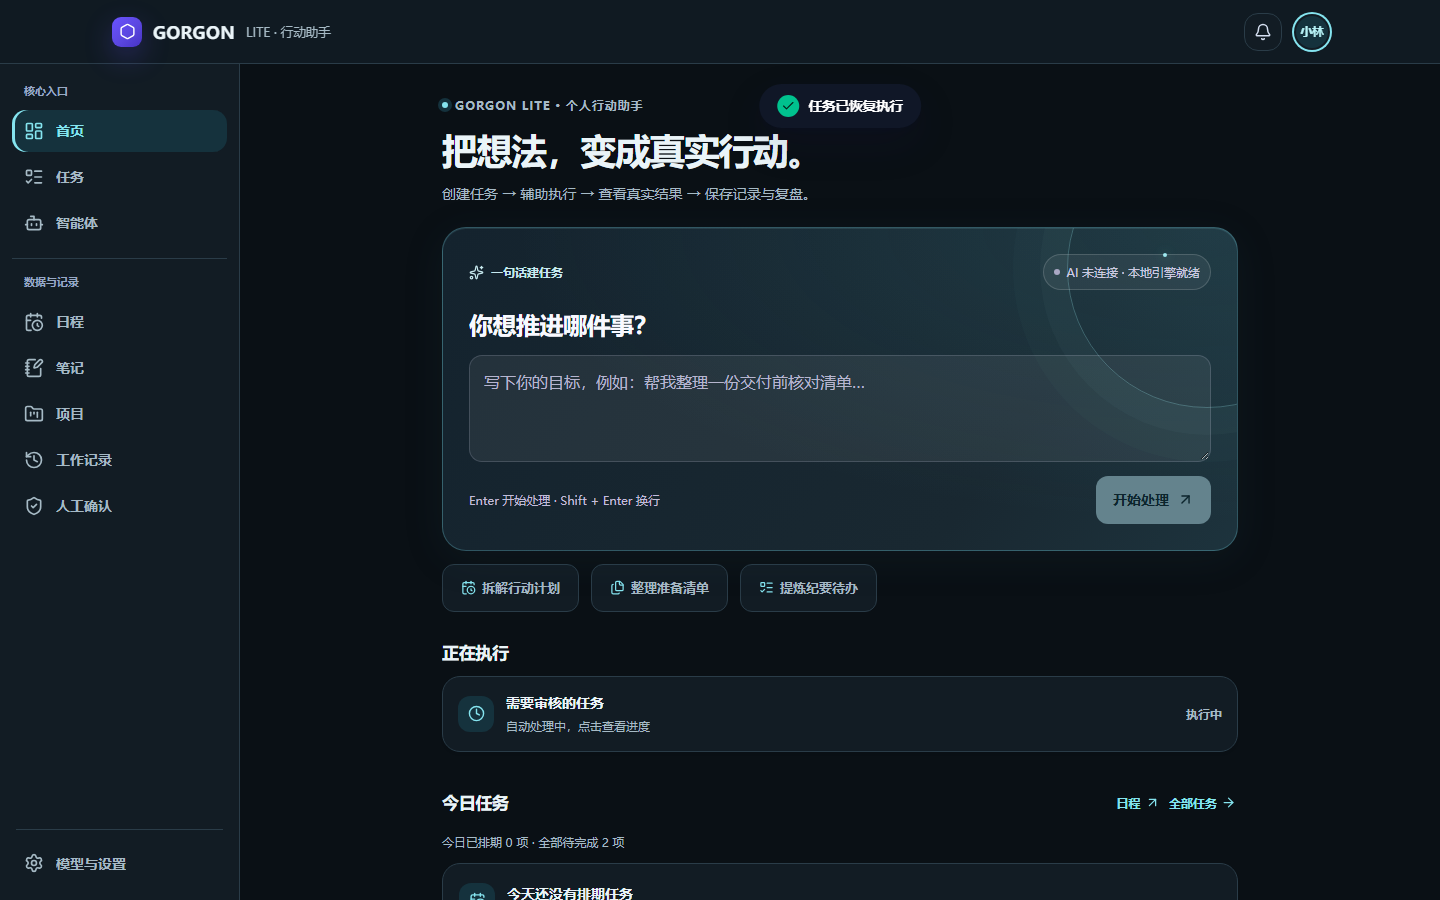
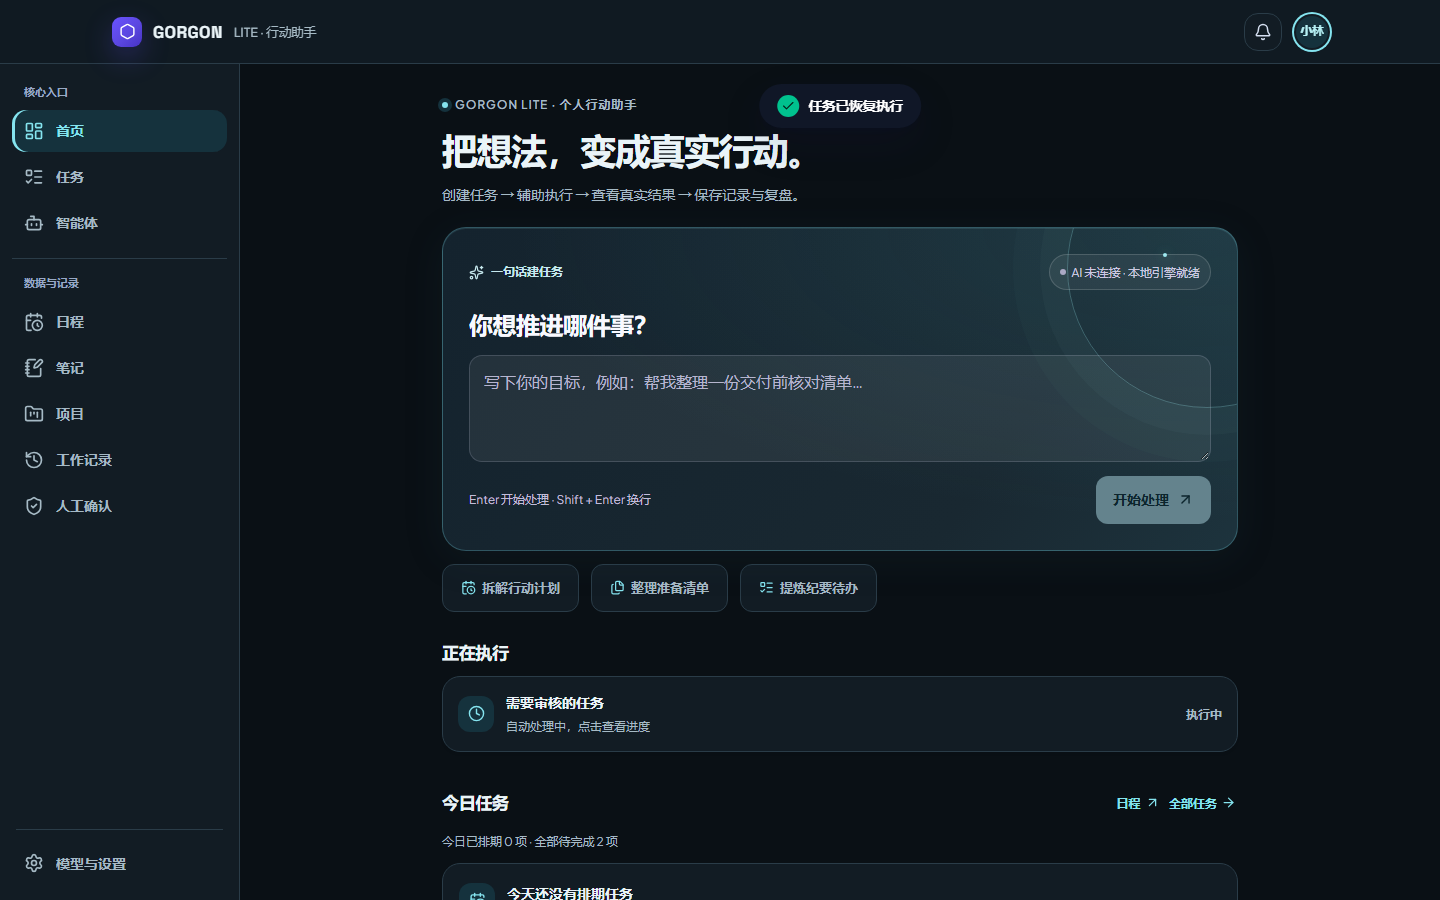
test(lite): fix calendar-drift E2Es and verify full 100% pass across Python, Node, and CDP suites

diff --git a/pipeline/tests/test_store.py b/pipeline/tests/test_store.py
@@ -350,7 +350,7 @@ class SearchTest(unittest.TestCase):
     def test_keyword_matches_title(self):
         with EventRepository(":memory:") as repo:
             self._seed(repo)
-            rows = repo.search(keyword="音乐")
+            rows = repo.search(keyword="音乐", today=date(2026, 9, 22))
             self.assertEqual(1, len(rows))
             self.assertEqual("上海音乐节", rows[0]["title"])
 

diff --git a/docs/GORGON_LITE_AUDIT.md b/docs/GORGON_LITE_AUDIT.md
@@ -95,11 +95,11 @@ flowchart TD
 
 | 分类 | 模块 / 路径 | Phase 1 实际动作 |
 |---|---|---|
-| **KEEP（主入口）** | `WorkbenchHome.jsx`、`TasksScreen.jsx`、`TaskDetailScreen.jsx`、`AgentScreen.jsx`、`LiteChrome.jsx`、`navigation.js`、`one-shot.js`、`task-*.js`、`reminder-*.js`、`agent-gateway.mjs` 及适配器 | 精简重构为 **首页 / 任务 / 智能体** 三主入口，强化主闭环 |
-| **KEEP（次级可达，不丢数据）** | `ScheduleScreen.jsx`、`NotesScreen.jsx`、`ProjectsScreen.jsx`、`ProjectDetailScreen.jsx`、`HistoryScreen.jsx`、`ReviewCenterScreen.jsx`、`SettingsScreen.jsx` | 移出移动端底栏，收纳至顶部「工具」面板、任务页快捷栏、任务详情与设置页 |
-| **HIDE（默认隐藏，保留恢复通道）** | `DiscoverScreen`、`SearchScreen`、`NaturalSearchScreen`、`MyWeekendScreen`、`MapScreen`、`PlacesScreen`、`UserActivitiesScreen`、`ProgressCenterScreen` | 从主导航移除；在「模型与设置 → 已隐藏模块与历史数据入口」及 `?legacy=1` / `?nav=classic` 保留完整访问 |
-| **ARCHIVE（冻结，下轮归档评估）** | `pipeline/`（Python 活动采集与检索服务）、`desktop/main.py`（pywebview 桌面壳）、`ui_kits/`（早期 Babel 前端）、`reports/` 历史报告 | 本轮零修改、零删除；静态活动数据拆分为独立 `archived-data` 构建分包 |
-| **REMOVE_CANDIDATE（仅标记，本轮不删）** | 未合并 PR #8 黑客松模块（未引入本分支）、未挂载 UI 的 `job-repository.js` / `job-model.js`、与项目页重叠的 `ProgressCenterScreen.jsx` | 仅记录为后续迭代清理候选，第一轮不删除任何源码文件 |
+| **KEEP（主入口）** | `WorkbenchHome.jsx`、`TasksScreen.jsx`、`TaskDetailScreen.jsx`、`AgentScreen.jsx`、`LiteChrome.jsx`、`navigation.js`、`one-shot.js`、`task-*.js`、`reminder-*.js`、`agent-gateway.mjs` 及适配器 | 精简重构为 **首页 / 任务 / 智能体** 三主入口，打通任务详情 ↔ 智能体上下文写回与结构化复盘闭环 |
+| **KEEP（次级可达，不丢数据）** | `ScheduleScreen.jsx`、`NotesScreen.jsx`、`ProjectsScreen.jsx`、`ProjectDetailScreen.jsx`、`HistoryScreen.jsx`、`ReviewCenterScreen.jsx`、`SettingsScreen.jsx` | 移出移动端底栏，收纳至顶部「工具」面板、任务页快捷栏、任务详情与设置页，并改为 `React.lazy` 按需加载 |
+| **HIDE（默认隐藏，保留恢复通道）** | `DiscoverScreen`、`SearchScreen`、`NaturalSearchScreen`、`MyWeekendScreen`、`MapScreen`、`PlacesScreen`、`UserActivitiesScreen`、`ProgressCenterScreen` + `hooks/useArchivedState.js` | 状态与回调从 `App.jsx` 抽离至 `useArchivedState.js`（`App.jsx` 由 1,238 行降至 557 行，主 JS 包由 `492.61 kB` 降至 `249.45 kB`）；在「设置 → 已隐藏模块与历史数据入口」及 `?legacy=1` / `?nav=classic` 保留完整访问 |
+| **ARCHIVE（冻结，下轮归档评估）** | `pipeline/`（Python 活动采集与检索服务）、`desktop/main.py`（pywebview 桌面壳）、`ui_kits/`（早期 Babel 前端）、`reports/` 历史报告 | 源码冻结不扩张（仅修正 `test_store.py` 1 处固定日期单测参数使 488 项 Python 测试全绿）；静态活动数据拆分为独立 `archived-data` 分包 |
+| **REMOVE_CANDIDATE（仅标记，本轮不删）** | 未合并 PR #8 黑客松模块（未引入本分支）、未挂载 UI 的 `job-repository.js` / `job-model.js`、与项目页重叠的 `ProgressCenterScreen.jsx` | 仅记录为后续迭代清理候选，本轮不删除任何源码文件 |
 
 ---
 
